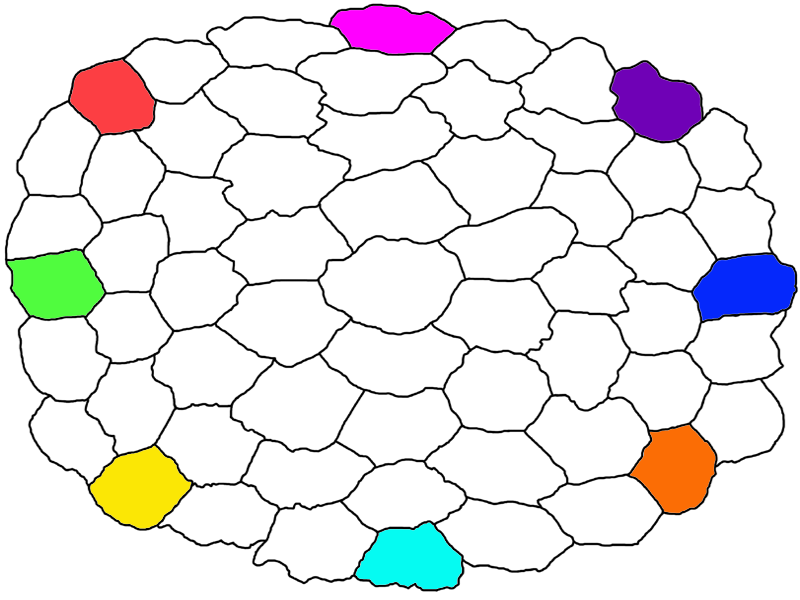
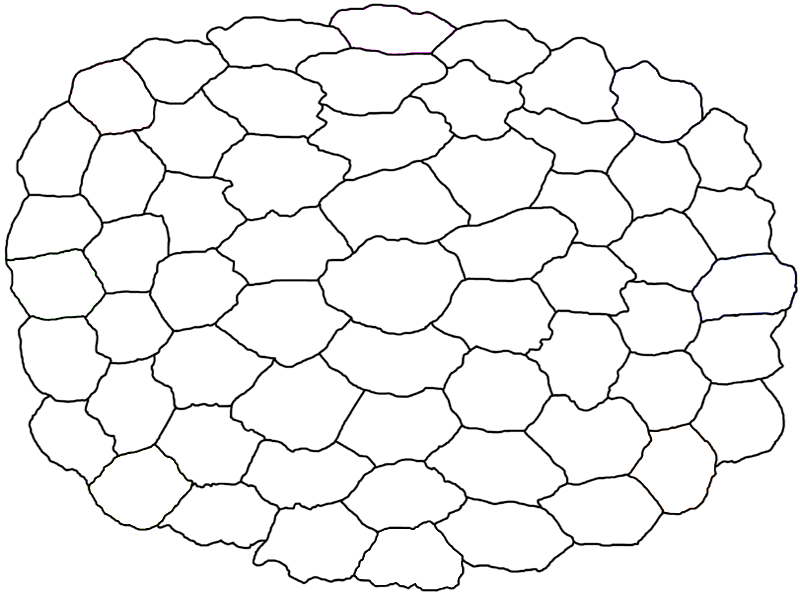
save colores

diff --git a/style.css b/style.css
@@ -17,10 +17,10 @@ html {
 
 body {
 	width: 810px;
-	height: 100vh;
 	padding: 5px;
-	background-color: rgb(39, 73, 105);
+	background: linear-gradient(rgb(108, 129, 148), rgb(242, 215, 185));
 	border: 1px solid var(--brown);
+	border-radius: 2px;
 	margin: 0px auto;
 }
 
@@ -36,15 +36,17 @@ header {
 	margin-bottom: 3px;
 	font-size: 10px;
 	color: lightgoldenrodyellow;
+	background-color: var(--brown);
 	border: 1px solid var(--brown);
 	border-radius: 4px;
-	background-color: var(--brown);
-	box-shadow: inset 0px 0px 2px 1px lightgoldenrodyellow;
+	box-shadow: inset 0px 0px 3px 1px lightgoldenrodyellow;
 }
 
 footer {
+	color: black;
 	padding-top: 2px;
 }
+
 
 /**********************************************************************/
 button {
@@ -80,7 +82,6 @@ button:disabled {
 main {
 	margin: 0px auto;
 }
-
 
 .container {
 	position: relative;

diff --git a/index.html b/index.html
@@ -42,7 +42,7 @@
     </div>
   </main>
   <footer>
-    © 2023 <a href="https://t.me/SirYozhka">SirYozhka</a> (version 1.2)
+    © 2023 <a href="tg://resolve?domain=SirYozhka">SirYozhka</a> (version 1.2)
   </footer>
 
   <!-- DEBUG логирование на экран -->
